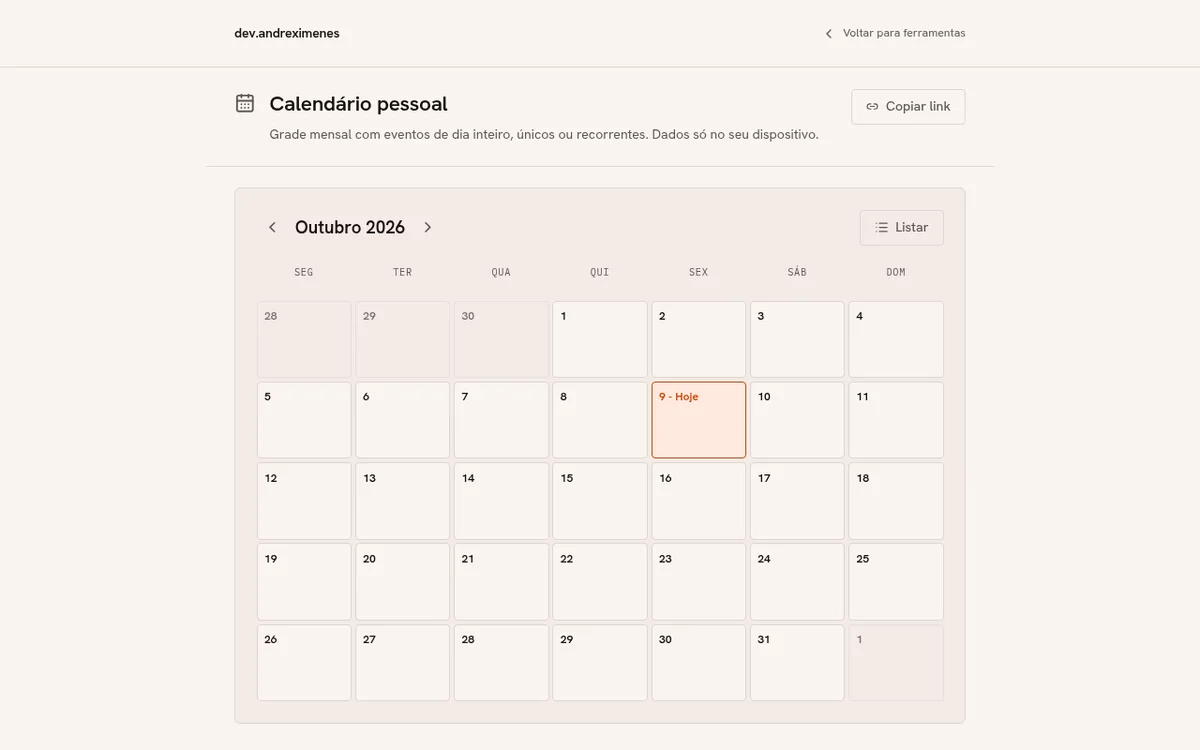
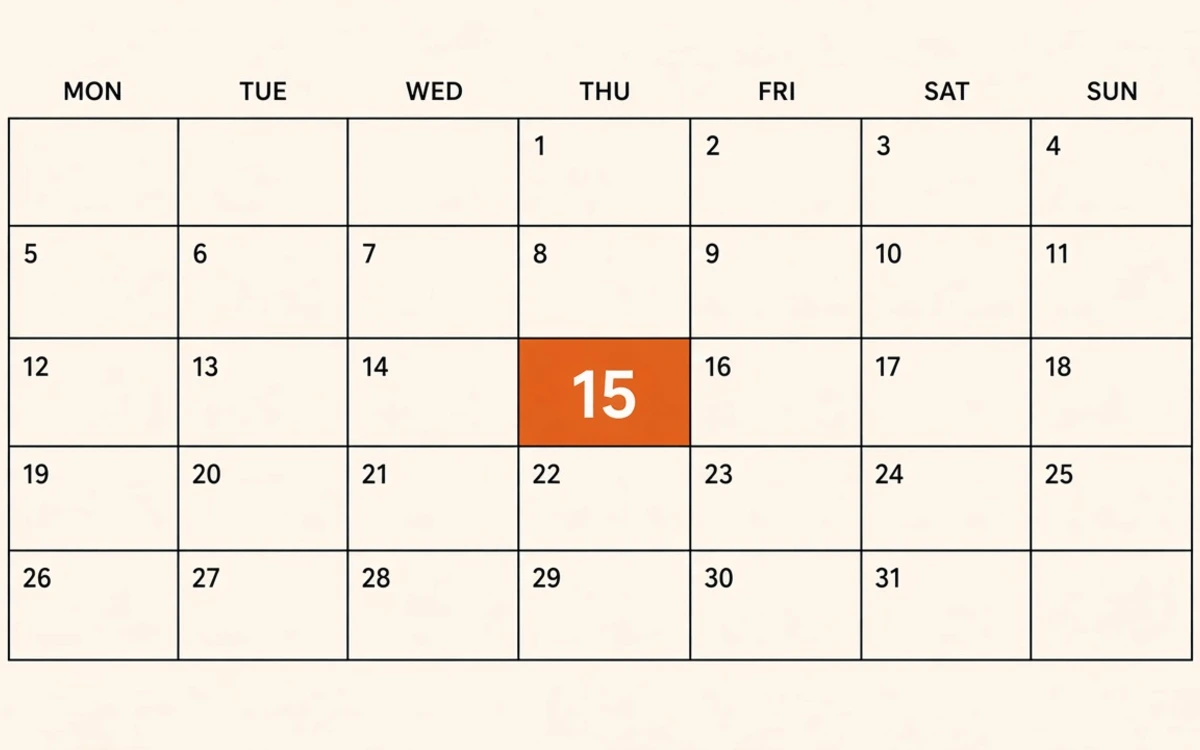
chore(covers): trocar screenshots das tools por capas editoriais planas
As listagens de /app passam a usar metáforas gráficas no mesmo papel do hub, em vez de capturas da UI.

diff --git a/docs/superpowers/specs/2026-11-04-tool-covers-editorial-design.md b/docs/superpowers/specs/2026-11-04-tool-covers-editorial-design.md
@@ -1,0 +1,35 @@
+# Capas editoriais das tools
+
+Trocar screenshots de UI em `src/assets/covers/tools/` por capas editoriais planas, legíveis, no mesmo universo de papel creme/acento laranja do hub, sem diluir no lifestyle 3D das notas.
+
+## Decisões
+
+| Tema | Decisão |
+|------|---------|
+| Conteúdo | Metáfora literal plana (quase sem profundidade), não screenshot |
+| Diferenciação das notas | Tools = flat/gráfico; notes = produto/lifestyle com mais profundidade |
+| Texto | Só como elemento no objeto, quando a metáfora precisa (ex.: `CV` grande no papel) |
+| Formato | WebP 1200×750 (~16:10), path e frontmatter inalterados |
+| Docs | README / tools.md / design.md: tools passam a capa editorial |
+
+## Brief por tool
+
+1. **criador-de-curriculos** — Dois papéis flat before → after. `CV` grande no topo de ambos. Esquerda bagunçada com X, direita limpa + selo laranja.
+2. **bloco-de-notas** — Uma sticky note centralizada com alfinete laranja e texto legível curto (título `nota` + linhas de corpo).
+3. **calendario-pessoal** — Grade mensal flat, um dia marcado em laranja. Sem título externo.
+4. **canvas** — Tela flat com 3 formas geométricas + guia pontilhada. Marca pequena `PNG` no canto.
+5. **despensa** — Prancheta com checklist + armário com mantimentos flat. Sem título externo.
+6. **ferramentas-de-imagem** — Dois frames: foto cheia → silhueta sem fundo. Seta laranja. Tag `webp` no frame limpo.
+7. **ferramentas-para-o-dia-a-dia** — Calculadora + dados/moeda + régua flat. Número `42` na calculadora.
+8. **goal-quest** — Card de missão flat: checkbox, barra XP, badge laranja. `XP` ou `Lv 1` no card.
+9. **planejador-de-independencia-financeira** — Coluna baixa → coluna alta + linha. Detalhe `0,5%`.
+10. **planejador-financeiro** — Lista flat de assinaturas + total `R$/dia` grande.
+11. **planejador-semanal** — Grade 7 colunas (D–S), blocos de horário, um bloco laranja.
+12. **temas-css** — Três swatches flat + snippet `--accent`. Um swatch laranja ativo.
+13. **transmissao-optica-qr** — Dois devices flat (tela + câmera) com QR no meio e seta óptica laranja.
+
+## Fora de escopo
+
+- Mudança de layout das listagens
+- Regenerar capas de notes/links
+- Automação de geração no build

diff --git a/tools.md b/tools.md
@@ -155,7 +155,7 @@ cover: "../../../assets/covers/tools/meu-planner.webp"
 
 O campo `description` aparece na listagem (`/`, `/app`, busca). Mantenha alinhado com a `description` do `ToolShell`.
 
-O campo `cover` é obrigatório. Salve um screenshot da UI (WebP ~16:10, ~1200px de largura) em `src/assets/covers/tools/<slug>.webp`.
+O campo `cover` é obrigatório. Salve uma capa editorial plana (metáfora literal do tema, WebP ~16:10, ~1200px de largura) em `src/assets/covers/tools/<slug>.webp`. Não use screenshot da UI. Brief e regras em `docs/superpowers/specs/2026-11-04-tool-covers-editorial-design.md`.
 
 ---
 

diff --git a/README.md b/README.md
@@ -12,7 +12,7 @@ Três tipos de publicação, acessíveis pela home e pelas seções do nav:
 - **Ferramentas** (`/app`): apps React no navegador (planejador, CV, etc.)
 - **Links** (`/link`): curadoria com capa do destino e link externo
 
-Cada post leva uma capa em `src/assets/covers/` (screenshot nas tools, editorial nas notas, OG/screenshot nos links).
+Cada post leva uma capa em `src/assets/covers/` (editorial plana nas tools, editorial nas notas, OG/screenshot nos links).
 
 ## Ferramentas
 

diff --git a/design.md b/design.md
@@ -73,6 +73,7 @@ Escala 4pt nomeada em `src/styles/tokens.css`. Usar `var(--space-*)`, nunca valo
 - Sem footer de site (RSS fica no `<link rel="alternate">` do head)
 - Layout em coluna até `md`; `flex-row` / multi-coluna só a partir de `lg`
 - Todo post publicado tem `cover` (WebP em `src/assets/covers/<type>/<slug>.webp`)
+- Capas de tools: editorial plana (metáfora literal), não screenshot; notes: editorial; links: OG/screenshot do destino
 
 ## What pages MAY differ on
 
